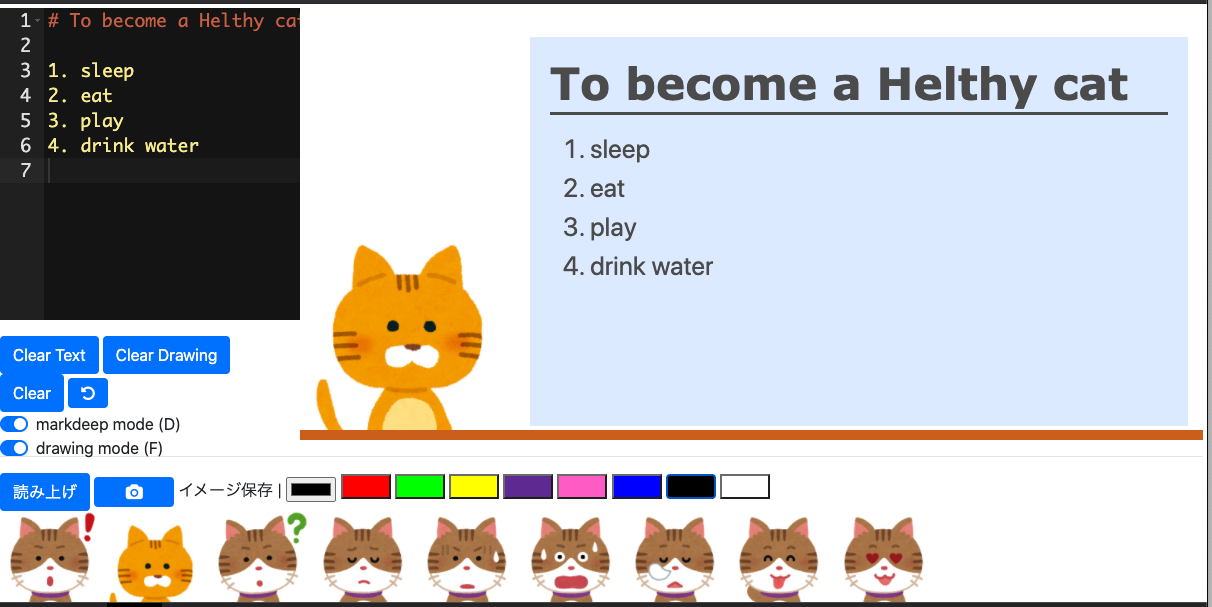
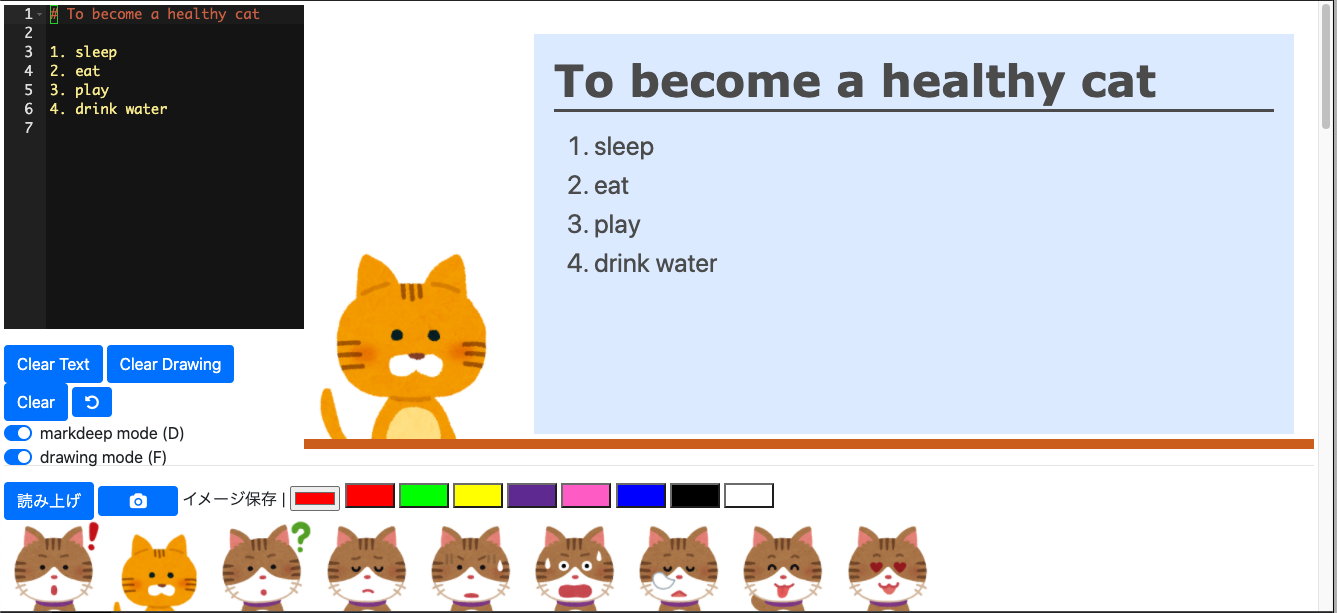
fix typo

Changed region(s): [[0.0, 0.0, 1.0, 1.0]]

diff --git a/index.html b/index.html
@@ -63,11 +63,16 @@
      #result * {
          font-size: 26px;
      }
+
+     .diagram text {
+         font-size: 14px !important;
+     }
+
      #capture_button { width: 80px; }
      /* .markdeep { */
      /*     padding: 10px; */
      /* } */
-     
+
      #main {
          height: 100%;
      }
@@ -185,15 +190,15 @@
           <td id="cam_input" class="cam_col">
             <!-- ace editor -->
             <!-- <div id="editor_container"></div> -->
-            <pre id="markdeep_input"># To become a Helthy cat
+            <pre id="markdeep_input"># To become a healthy cat
 
 1. sleep
 2. eat
 3. play
 4. drink water
 </pre>
-            
-            <!-- 
+
+            <!--
             <textarea id="markdeep_input" rows="12"># I have five questions!
 ## Who: ____________
 ## Why: ____________
@@ -214,7 +219,7 @@
         <input type="checkbox" class="custom-control-input" id="drawing_mode" checked>
         <label class="custom-control-label" for="drawing_mode">drawing mode (F)</label>
       </div>
-            
+
             <!-- The Modal --><div id="myModal" class="modal">  <!-- The Close Button --> <span class="close">&times;</span>  <!-- Modal Content (The Image) -->  <img class="modal-content" id="img01">  <!-- Modal Caption (Image Text) -->  <div id="caption"></div></div>
           </td>
           <td id="cam_output" class="cam_col" style="position: relative;">
@@ -241,7 +246,7 @@
       <button class="btn btn-primary" onclick="speech();">読み上げ</button>
       <button class="btn btn-primary fa fa-camera" id="capture_button" onclick="capture();" aria-hidden="true"></button>
       <a id="image_download" download="board_and_me.png">イメージ保存</a>
-      
+
       | <input type="color" class="color_button" id="drawing_color" name="drawing_color" value="#FF0000">
       <button class="color_button" data-color="red"></button>
       <button class="color_button" data-color="green"></button>
@@ -269,7 +274,7 @@
     <div id="additional">
       <h2>撮った画像 <a href="#captured_image"><sup>#</sup></a></h2>
 
-      
+
       <div id="target">
       </div>
 
@@ -278,15 +283,15 @@
            <br><textarea id="svg_content"></textarea>
            <button class="btn btn-primary" onclick="save_svg();">SVG保存</button>
       -->
-      
+
       <h2>サポート状況 <a href="#support"><sup>#</sup></a></h2>
       MacのFirefoxではSVGの落書きの保存はできません
       <br>MacのChromeでは動作します。
       <br>iPadのSafari, Chromeでは動作します。
-      
+
       <h2>テンプレート <a href="#template"><sup>#</sup></a></h2>
       <h3>表<a href="#table"><sup>#</sup></a></h3>
-      <pre class="template">|1|2|3|4|5|6|7| 8|9| 
+      <pre class="template">|1|2|3|4|5|6|7| 8|9|
 |-|-|-|-|-|-|-|-| -|
 |1|2|3|4|5|6|7|8|9|
 |1|2|3|4|5|6|7|8|9|
@@ -333,7 +338,7 @@ How: ではどうすればよいか? &lt;br&gt;&lt;br&gt;&lt;hr&gt;
 
 <h3>段組みレイアウト</h3>
 <pre class="template">
-# 段組みレイアウト 
+# 段組みレイアウト
 
 multi-column layouts
 
@@ -365,7 +370,7 @@ multi-column layouts
       <li><a href="https://ace.c9.io/">Ace</a>
         <br>Copyright (c) 2010, Ajax.org B.V. All rights reserved.</li>
       <hr>
-      
+
       <br><a href="#" onclick="generate_qrcode_of_url();">このページのQRコード</a>
       <br>Takashi Masuyama mamewotoko AT gmail.com
       <br><a href="https://github.com/mamewotoko/markdeep_cam">mamewotoko/markdeep_cam</a>
@@ -401,11 +406,11 @@ multi-column layouts
      }
 
      //undo_drawing
-     
+
      function capture(){
          var w = $("#frame").width();
          var h = $("#frame").height();
-         
+
          var config = {
              width: w,
              height: h,
@@ -416,9 +421,9 @@ multi-column layouts
 
          html2canvas($("#frame")[0], config).then(canvas => {
              canvas.id = "captured_frame";
-             $("#target").width(w); 
+             $("#target").width(w);
              $("#target").height(h);
-             
+
              target.appendChild(canvas);
              add_svg(canvas);
          });
@@ -432,7 +437,7 @@ multi-column layouts
          var x = ohp_pos.left - frame_pos.left;
          var y = ohp_pos.top - frame_pos.top;
          var base64data = btoa(current_svg);
-         
+
          var img = new Image();
          img.width = $("#ohp").width();
          img.height = $("#ohp").height();
@@ -468,7 +473,7 @@ multi-column layouts
          var URLObj = window.URL || window.webkitURL;
          img.src = URLObj.createObjectURL(blob);
      });
-     
+
      $("#copyright_input").on("keydown", function(e){
          console.log("keydown" + e.keyCode);
          if(e.keyCode == 13){
@@ -485,7 +490,7 @@ multi-column layouts
          var view_height = Math.max(win_height - control_height + 60, 100);
          console.log("view_height " + view_height);
          $("#ui_top").height(view_height-20);
-         editor.resize();        
+         editor.resize();
      }
      $(window).resize(function(){
          init_size();
@@ -496,10 +501,10 @@ multi-column layouts
          editor.setTheme("ace/theme/twilight");
          editor.setKeyboardHandler("ace/keyboard/emacs");
          editor.session.setMode("ace/mode/markdown");
-         
+
          init_size();
          //window.scrollTo(0, 0);
-         
+
          var color_table = {
              "red": "#ff0000",
              "blue": "#0000ff",
@@ -511,7 +516,7 @@ multi-column layouts
              "orange": "#FFAA00",
              "yellow": "#FFFF00"
          };
-         
+
          $(".color_button").each(function(i, e){
              $(e).css("background-color",
                       color_table[$(e).attr("data-color")]);
@@ -523,7 +528,7 @@ multi-column layouts
              $("#drawing_color").val(color);
              window.stroke_color = color;
          });
-         
+
          $("#avatar_list img").dblclick(function(e){
              e.preventDefault();
              $("#avatar").attr("src", $(this).attr("src"));
@@ -557,7 +562,7 @@ multi-column layouts
             <script src="js/mindmap.browser.js"></script>
             <script src="https://code.jquery.com/jquery-3.5.1.slim.min.js" integrity="sha384-DfXdz2htPH0lsSSs5nCTpuj/zy4C+OGpamoFVy38MVBnE+IbbVYUew+OrCXaRkfj" crossorigin="anonymous"></script>
             <script src="https://stackpath.bootstrapcdn.com/bootstrap/4.5.0/js/bootstrap.min.js" integrity="sha384-OgVRvuATP1z7JjHLkuOU7Xw704+h835Lr+6QL9UvYjZE3Ipu6Tp75j7Bh/kR0JKI" crossorigin="anonymous"></script>
-<!-- 
+<!--
             <script src="lib/js/ace.js" type="text/javascript" charset="utf-8"></script>
             -->
             <script src="./lib/js/ace-build/src-min-noconflict/ace.js"></script>
